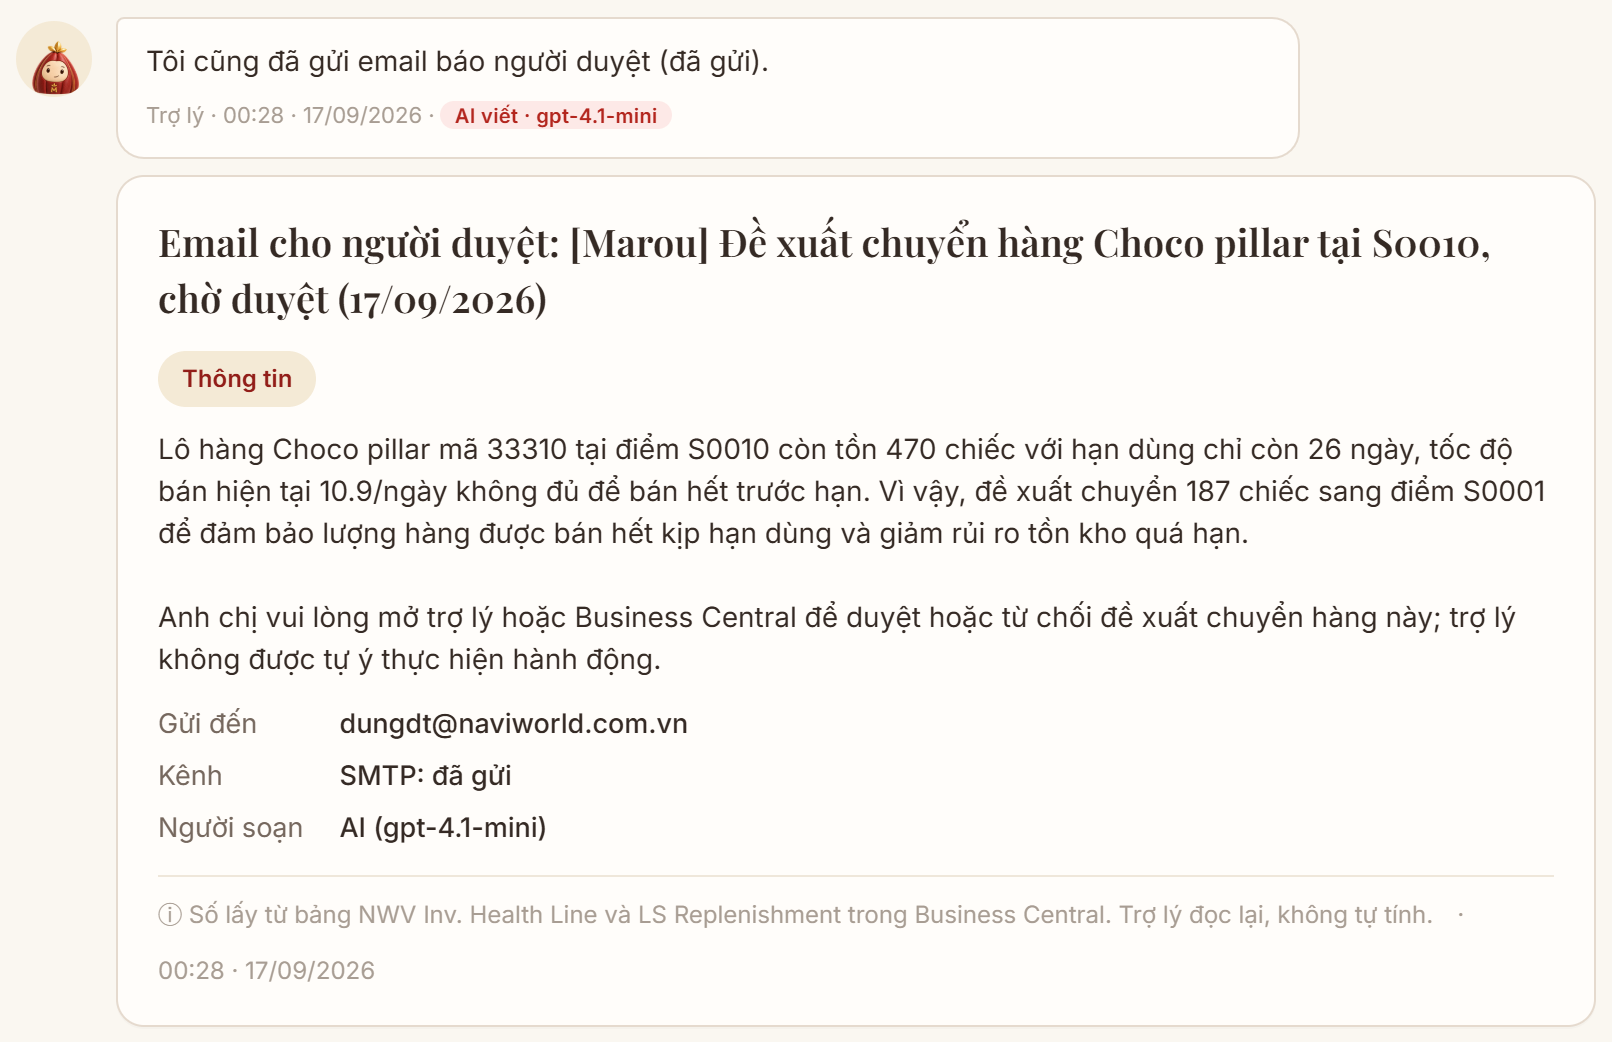
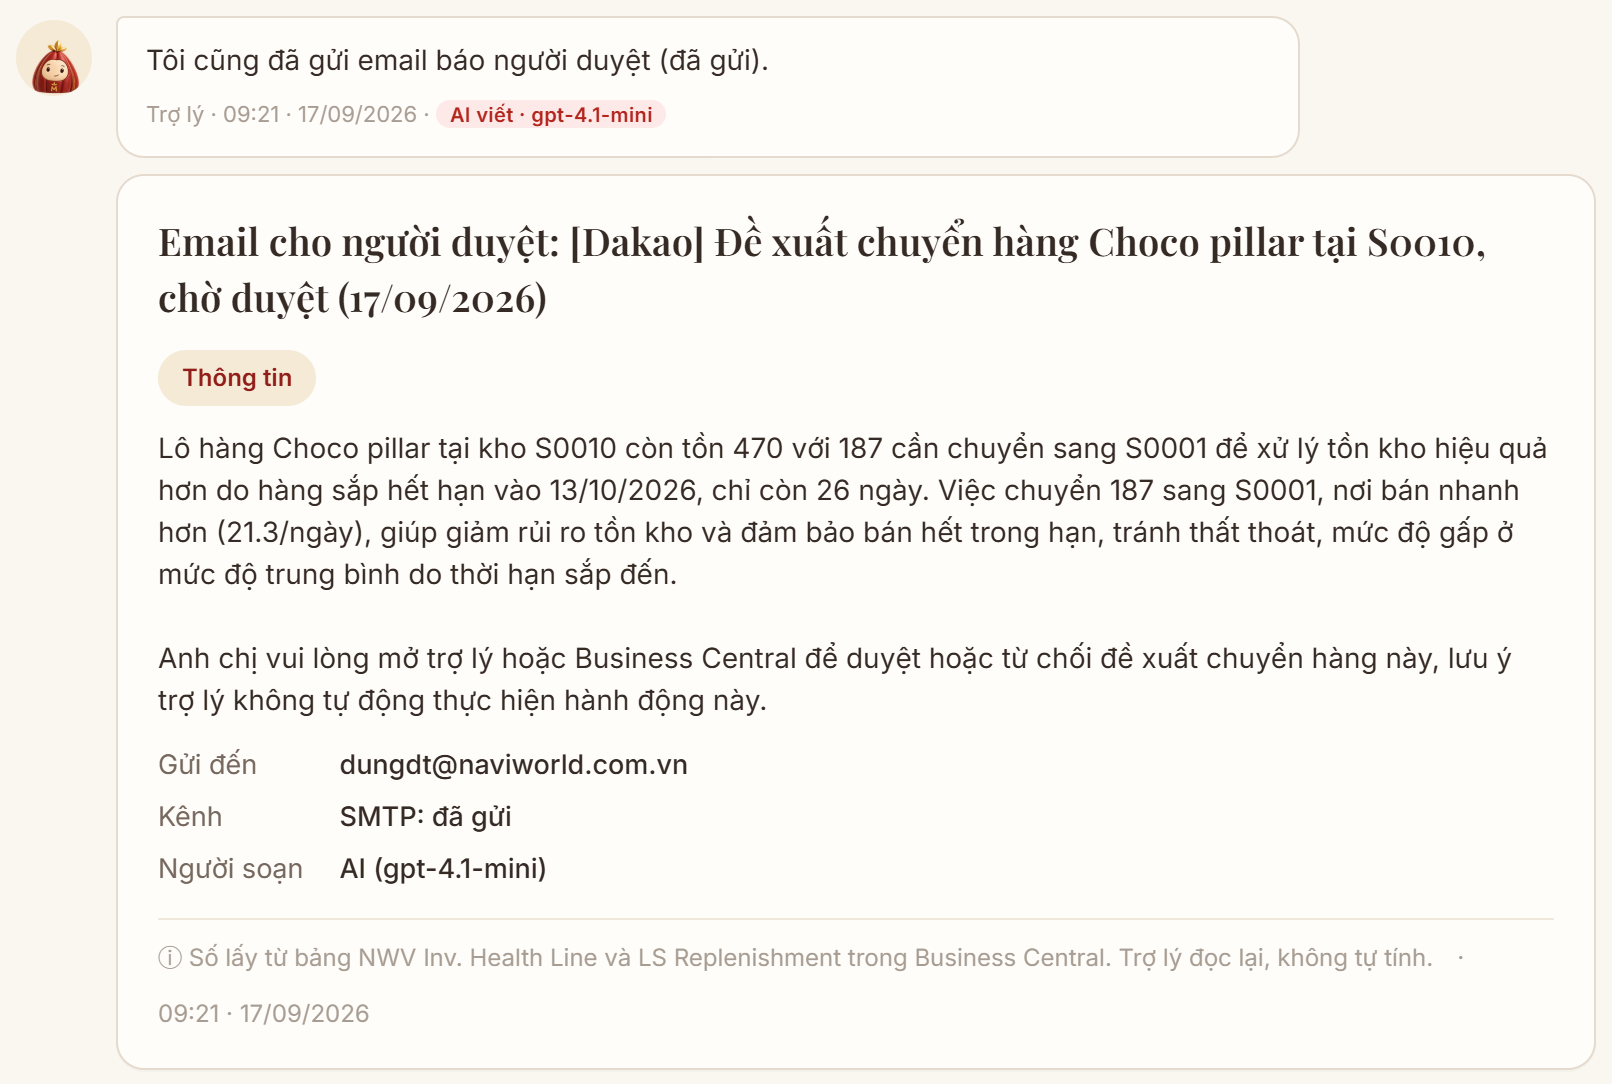
Buoc 3-5 lo can date chuyen sang Dakao: console, QA, script 3.1, slide v6 va anh chup lai

diff --git a/docs/build_13.js b/docs/build_13.js
@@ -1,5 +1,5 @@
 /**
- * Tai lieu 13, ban 3.0: demo script cho buoi trinh dien ngay 17/09/2026.
+ * Tai lieu 13, ban 3.1: demo script cho buoi trinh dien ngay 17/09/2026.
  * Khac voi speaker note trong slide 12: cho nay la runbook thao tac, ai bam gi, o dau, cho bao lau, khach thay gi, noi cau nao.
  * Ban 3.0 (dem 16 rang sang 17/09): UC2 len dau theo yeu cau cua Dung ("chu yeu la UC2"), them cau hoi tu do ve hang cham luan
  * chuyen noi sang de xuat CTKM, email cho nguoi duyet do AI soan, lich nen tu bao khi Marou post xuat kho. Da QA ca 20 buoc tren
@@ -23,7 +23,7 @@ function noiDung() {
     + "của console, tên nút chính là câu sẽ gửi."));
   c.push(...table(["Phần", "Bước", "UC", "Phút"], [
     ["1 · Sáng nay ở Marou: sức khỏe tồn kho", "1, 2", "UC2, AI", "0 đến 4"],
-    ["2 · Một lô cận date: AI phân tích, chọn phương án", "3 đến 5", "UC2 nối UC5, AI", "4 đến 10"],
+    ["2 · Một lô cận date ở cửa hàng: AI phân tích, chọn phương án", "3 đến 5", "UC2 nối UC5, AI", "4 đến 10"],
     ["3 · Hỏi tự do trên tồn kho: chậm luân chuyển, CTKM, truy xuất, bất thường", "6 đến 9", "UC2, AI", "10 đến 19"],
     ["4 · Cửa hàng bán lẻ hết hàng: LS tính, AI đề xuất", "10 đến 13", "UC5, AI", "19 đến 27"],
     ["5 · Dự báo, một nhịp", "14, 15", "UC1, UC7 nối UC5", "27 đến 31"],
@@ -46,7 +46,7 @@ function noiDung() {
     + "chứng từ do lần chạy thử sinh ra. Không phải làm lại gì trước buổi họp, chỉ kiểm theo mục 2."));
   c.push(...table(["Đã có sẵn", "Ở đâu", "Dùng cho bước"], [
     ["Bộ dữ liệu tính theo ngày làm việc 17/09/2026: Inventory Health, dự báo, scorecard, LS Replenishment, cả hai company", "NWV-MAROU và NWV-DAKAO", "Tất cả"],
-    ["Lô Choco pillar L260829-33310-SD tại S0010: 470 cái, 26 ngày nữa hết hạn, bán không kịp; S0001 bán nhanh hơn", "Inventory Health NWV-MAROU", "3 đến 5"],
+    ["Lô Choco pillar L260829-33310-SD tại S0010: 470 cái, 26 ngày nữa hết hạn, bán không kịp; S0001 bán nhanh hơn", "Inventory Health NWV-DAKAO", "3 đến 5"],
     ["Ice cream strawberry: 109 ngày không bán ở S0001, S0002, S0013 và kho; ba CTKM đang chạy không có mặt hàng này", "Inventory Health và Periodic Discount NWV-DAKAO", "6, 7"],
     ["Lô Choco nuts L260906-33323C: Marou xuất 81 cái theo HO106202 sang S0001, hạn 22/04/2027", "Item Ledger Entry NWV-MAROU", "8"],
     ["LS ở Dakao đề xuất 12 Ice cream cho S0002 (min-max 8/20), 7 Croissant chocolate cho S0002 (hết hàng quá nửa cửa sổ tính), 2 Choco nuts cho S0001", "Journal MAROU-PO của NWV-DAKAO", "10, 11, 13"],
@@ -58,7 +58,7 @@ function noiDung() {
   c.push(h2("Đã dọn"));
   c.push(...table(["Đã xoá hoặc đóng", "Vì sao"], [
     ["Đề xuất huỷ Croissant plain ở Marou và đề xuất đặt mua Ice cream ở Dakao từ lần bạn chạy thử tối 16/09", "Để bước 4 và bước 10 ghi đề xuất mới, không bị báo “đã có đề xuất”."],
-    ["Transfer Order HO1039 và đề xuất chuyển Choco pillar của lần QA", "Bước 5 sẽ tạo lại đúng trước mặt khách."],
+    ["Transfer Order HO1039 và đề xuất chuyển Choco pillar của lần QA, ở cả hai company", "Bước 5 sẽ tạo lại đúng trước mặt khách."],
     ["Đơn thử HO106204 (10 Choco pillar, S0005) và HO106205 (12 Ice cream, S0002): đã xuất kho và đã post nhận (phiếu 107111, 107112), đề xuất liên quan đã xoá", "Hai đơn dùng để kiểm lịch nền báo xuất kho và nút Marou xuất kho. Đóng lại để bước 16 chỉ còn HO106202 và HO106200."],
     ["Đề xuất post nhận HO106200 sinh ra khi QA bước 16", "Bước 16 sẽ ghi lại đúng lúc bấm."],
   ], [6.0, 6.0]));
@@ -73,7 +73,7 @@ function noiDung() {
     ["Bấm Reset MỘT lần lúc bắt đầu, rồi thôi", "Khay Điều khiển demo ở góc dưới phải, nút Reset", "Hộp thư mọi vai về màn hình chào. Sau đó không bấm Reset nữa, không bấm +24 giờ"],
     ["Nguồn dữ liệu là Business Central", "Dải ngay dưới thanh tiêu đề, nút Business Central đang tô", "Dải xanh ghi Đang đọc Business Central NWV01"],
     ["Bật AI", "Vai Dũng (Quản trị), tab Cài đặt AI", "Ô trạng thái ghi AI đang bật; trần ngày còn ít nhất 1 USD"],
-    ["Cột Theo dõi xử lý sạch", "Vai Hùng, xem cột phải ở cả hai company", "Marou: chưa có đề xuất nào. Dakao: bốn dòng Executed (HO106200, HO106201, HO106202, phiếu nhận 107110)"],
+    ["Cột Theo dõi xử lý sạch", "Vai Hùng, xem cột phải ở cả hai company", "Marou: chưa có đề xuất nào. Dakao: bốn dòng Executed (HO106200, HO106201, HO106202, phiếu nhận 107110), chưa có đề xuất chuyển hàng"],
     ["Mở sẵn Business Central", "Một tab trình duyệt riêng, đăng nhập NWV01, company NWV-MAROU", "Bấm link trong thẻ là mở được; muốn tự post xuất kho HO106203 thì mở sẵn Sales Order S90016"],
   ], [2.6, 5.2, 4.2]));
   c.push(h2("Người dùng demo"));
@@ -119,20 +119,20 @@ function noiDung() {
      "Bản này cũng tự chạy lúc 07:30 và gửi email, hôm nay tạm dừng để giữ dữ liệu cho buổi họp."],
     ["Phần lớn thời gian là đọc Business Central. Nói trước để người xem không tưởng máy treo."]);
 
-  c.push(h2("Phần 2 · Một lô cận date: AI phân tích, chọn phương án"));
-  buoc(3, "Lô nào sắp hết hạn?", "trang.sc · Marou",
+  c.push(h2("Phần 2 · Một lô cận date ở cửa hàng: AI phân tích, chọn phương án"));
+  buoc(3, "Lô nào sắp hết hạn?", "trang.sc · Dakao",
     "Nút 3.",
     "Khoảng 5 giây: 36 lô cận date, chia theo địa điểm; 5 thẻ lô giá trị lớn nhất. Thẻ Choco pillar S0010: 470 cái, 26 ngày, bán không kịp; hai nút Đề xuất giảm giá và Phương án xử lý.",
     ["Câu này trợ lý đọc thẳng bảng. Điều phối thấy toàn hệ thống; quản lý cửa hàng hỏi cùng câu chỉ thấy cửa hàng mình.",
      "Chọn Choco pillar để đi tiếp: 470 cái mà 26 ngày nữa hết hạn, tại chỗ bán không kịp."]);
-  buoc(4, "Phương án xử lý cho Choco pillar ở S0010", "trang.sc · Marou",
+  buoc(4, "Phương án xử lý cho Choco pillar ở S0010", "trang.sc · Dakao",
     "Nút 4 gửi câu “phương án xử lý cho Choco pillar ở S0010” (cùng kết quả với nút Phương án xử lý trên thẻ lô). Trên thẻ trả về, bấm nút Ghi đề xuất: Chuyển.",
     "Khoảng 5 giây: bảng năm phương án kèm giá trị cứu được hoặc mất, lời khuyên của model (chuyển 187 sang S0001, không còn phần dư). Sau khi ghi (khoảng 15 giây): câu đã ghi đề xuất, thẻ Email cho người duyệt với hai đoạn AI viết, kênh SMTP đã gửi.",
     ["Code tính năm phương án: giữ, chuyển, chuyển kèm giảm giá, giảm giá, huỷ. Khả năng nhận của từng cửa hàng bằng bán bình quân nhân ngày còn lại trừ tồn họ đang có.",
      "Model chọn một và nói vì sao. Khoá phương án phải nằm trong bảng, chữ số phải có trong dữ liệu, không được thêm đơn vị tiền, không được chọn giữ khi giữ vẫn còn dư. Vi phạm là về câu mẫu.",
-     "Đây là UC2 nối sang UC5: hàng cận date đi về nơi bán nhanh, không phải huỷ.",
+     "Đây là UC2 nối sang UC5: hàng cận date đi về nơi bán nhanh, không phải huỷ. Bước này chạy ở Dakao vì cửa hàng thuộc Dakao; Marou là nhà sản xuất.",
      "Người duyệt được gọi hai đường: thẻ trong chat cho ai đang mở trợ lý, email cho ai không mở. Code điền bảng số liệu và link BC; AI chỉ viết đoạn mở đầu và đoạn kết."]);
-  buoc(5, "Hùng duyệt chuyển hàng", "hung.dieuphoi · Marou",
+  buoc(5, "Hùng duyệt chuyển hàng", "hung.dieuphoi · Dakao",
     "Nút 5 đổi sang Hùng. Bấm Duyệt chuyển hàng trên thẻ đề xuất Choco pillar S0010 sang S0001.",
     "Khoảng 5 giây: Đã duyệt, Transfer Order HO10xx tạo dưới tên Hùng, trạng thái Open; cột phải Transfer Order có dòng mới.",
     ["Đề xuất ghi vào một bảng riêng trong Business Central, trạng thái luôn vào ở Proposed. Không có đường tắt cho trợ lý ghi thẳng chứng từ.",
@@ -295,7 +295,7 @@ function noiDung() {
     "Runbook 20 bước cho buổi trình diễn 17/09/2026: dữ liệu đã tạo sẵn, bấm gì, khách thấy gì, nói gì",
     {
       headerLeft: "NaviWorld", headerRight: "Marou • Demo script • Nội bộ",
-      footer: `Demo script · Bản 3.0, ${NGAY}`,
+      footer: `Demo script · Bản 3.1, ${NGAY}`,
       cover: ["Người đọc: người trình diễn và người hỗ trợ kỹ thuật trong buổi họp",
         "Môi trường: Business Central NWV01, hai company NWV-MAROU và NWV-DAKAO, Work Date 17/09/2026",
         `Soạn rạng sáng ${NGAY}, sau khi chạy thử cả 20 bước trên dữ liệu thật. Thứ tự bước trùng với cột Kịch bản demo trên console.`,

diff --git a/python/assistant/static/index.html b/python/assistant/static/index.html
@@ -663,14 +663,14 @@ const CHUONG = [
     {ten: "Brief sáng nay do AI viết", y: "ba việc quan trọng nhất và vì sao", loai: "brief", ai: "trang.sc", ct: "NWV-MAROU", uc: "UC2 · AI",
      mo: "Model chọn ba việc trong danh sách code đưa và nói vì sao; mọi chữ số phải có trong dữ liệu, sai là về câu mẫu. Mất khoảng 20 giây, phần lớn là đọc Business Central."},
   ]},
-  {ten: "2 · Một lô cận date: AI phân tích, chọn phương án", buoc: [
-    {ten: "Lô nào sắp hết hạn?", y: "36 lô cận date, thẻ Choco pillar S0010", loai: "chat", ai: "trang.sc", ct: "NWV-MAROU", uc: "UC2",
+  {ten: "2 · Một lô cận date ở cửa hàng: AI phân tích, chọn phương án", buoc: [
+    {ten: "Lô nào sắp hết hạn?", y: "36 lô cận date, thẻ Choco pillar S0010", loai: "chat", ai: "trang.sc", ct: "NWV-DAKAO", uc: "UC2",
      text: "lô nào sắp hết hạn",
      mo: "Trợ lý đọc thẳng bảng, chia theo địa điểm, 5 lô giá trị lớn nhất thành thẻ. Thẻ Choco pillar S0010: 470 cái, 26 ngày, bán không kịp, có nút Phương án xử lý."},
-    {ten: "Phương án xử lý cho Choco pillar ở S0010", y: "code tính 5 phương án, AI chọn và giải thích", loai: "chat", ai: "trang.sc", ct: "NWV-MAROU", uc: "UC2 → UC5 · AI", can_ai: true,
+    {ten: "Phương án xử lý cho Choco pillar ở S0010", y: "code tính 5 phương án, AI chọn và giải thích", loai: "chat", ai: "trang.sc", ct: "NWV-DAKAO", uc: "UC2 → UC5 · AI", can_ai: true,
      text: "phương án xử lý cho Choco pillar ở S0010",
      mo: "Cùng kết quả với nút Phương án xử lý trên thẻ lô. Code tính giữ, chuyển, chuyển kèm giảm giá, giảm giá, hủy kèm giá trị cứu được; model chọn chuyển 199 sang S0001 vì bên đó bán nhanh hơn và nói vì sao. Bấm nút ghi đề xuất."},
-    {ten: "Hùng duyệt chuyển hàng", y: "Business Central tạo Transfer Order", loai: "huong_dan", ai: "hung.dieuphoi", ct: "NWV-MAROU", uc: "UC2", ghi_bc: true,
+    {ten: "Hùng duyệt chuyển hàng", y: "Business Central tạo Transfer Order", loai: "huong_dan", ai: "hung.dieuphoi", ct: "NWV-DAKAO", uc: "UC2", ghi_bc: true,
      mo: "Hộp thư Hùng có thẻ đề xuất chuyển 199 Choco pillar S0010 sang S0001. Bấm Duyệt chuyển hàng: BC tạo Transfer Order Open, thẻ có link mở. Trợ lý không có đường tắt ghi thẳng chứng từ."},
   ]},
   {ten: "3 · Hỏi tự do trên tồn kho: chậm luân chuyển, CTKM, truy xuất, bất thường", buoc: [

diff --git a/docs/note_slide_17_09.py b/docs/note_slide_17_09.py
@@ -15,6 +15,8 @@ SUA_CHU = [
         "Marou bán cho Dakao bằng Intercompany chuẩn của Business Central."),
     (5, "Nguồn: khảo sát Marou 13/09/2026 và RFP 20/08/2026.", "Nguồn: bối cảnh vận hành hiện tại của Marou và RFP 20/08/2026."),
     (5, "Dữ liệu trình diễn do NaviWorld dựng trên danh mục của Marou.", "Dữ liệu trình diễn do NaviWorld dựng trên danh mục của data demo Cronus."),
+    (5, "Trợ lý: tồn kho theo lô, đề xuất chuyển nội bộ", "Trợ lý: tồn kho theo lô, truy xuất lô, bán cho Dakao"),
+    (5, "Trợ lý: đứt hàng, dự báo, khuyến mãi, nhận hàng", "Trợ lý: lô cận date, đứt hàng, dự báo, khuyến mãi, nhận hàng"),
     (7, " Toàn bộ ngày QA 16/09 tốn 0,085 USD cho 146 lượt gọi.", ""),
     (8, " Đã chạy thử trọn vòng trên Business Central đêm 16/09.", ""),
     (12, "Chạy thật 17/09/2026 00:28 trên NWV-MAROU: SMTP đã gửi, người soạn AI (gpt-4.1-mini).",
@@ -73,12 +75,13 @@ GHI CHÚ:
 
 5: """NÓI:
 Slide này nối kiến trúc với bài toán của Marou. Marou có hai đơn vị. Marou là sản xuất, quản lý theo lô và hạn dùng. Dakao là bán lẻ, không quản lý lô. Hàng đi từ Marou sang Dakao bằng mua bán giữa hai công ty, giao thẳng tới từng cửa hàng.
-Vì vậy trợ lý đề xuất khác nhau ở hai bên. Bên Marou là chuyển hàng nội bộ. Bên Dakao là đặt mua, với nhà cung cấp chính là Marou. Số lượng vẫn do LS Central tính.
+Vì vậy trợ lý làm việc khác nhau ở hai bên. Bên Marou, trợ lý theo dõi tồn kho theo lô và truy xuất lô. Bên Dakao, trợ lý lo cho cửa hàng: lô cận date thì chuyển sang cửa hàng bán nhanh hơn, sắp hết hàng thì đặt mua từ Marou. Số lượng vẫn do LS Central tính.
 Ở giữa là ba painpoint của kho bán lẻ theo bối cảnh hiện tại. Một, hàng về cửa hàng mà chứng từ nhận hàng dồn tới cuối tháng mới post, phải thuê người ngoài làm. Hai, muốn tự động hóa đơn qua lại giữa hai công ty. Ba, kết ca thiếu nguyên liệu.
 Painpoint một và hai POC trả lời được, các anh sẽ thấy ở phần liên công ty cuối buổi. Painpoint ba nằm ngoài phạm vi POC này, em nói thẳng từ đầu.
 
 GHI CHÚ:
 - Không nói "khảo sát"; đây là bối cảnh hiện tại, chưa khảo sát chính thức.
+- Data demo: company Marou vẫn còn cửa hàng vì là bản sao từ Cronus. Mọi bước có cửa hàng đều chạy ở company Dakao; đừng mở cửa hàng ở company Marou.
 - Khách hỏi vì sao không tự gửi đơn: gửi đơn kéo theo Release, là quyết định của người mua.""",
 
 6: """NÓI:

diff --git a/tools/qa_kich_ban_17_09.py b/tools/qa_kich_ban_17_09.py
@@ -116,12 +116,12 @@ def chay(buoc, ghi):
 KICH_BAN = [
     {"so": 1, "ten": "Sức khỏe tồn kho", "loai": "tab", "url": "/api/uc2/summary?user=trang.sc", "ai": "trang.sc", "ct": "NWV-MAROU"},
     {"so": 2, "ten": "Brief AI", "loai": "brief", "ai": "trang.sc", "ct": "NWV-MAROU", "can_ai": True},
-    {"so": 3, "ten": "Lô nào sắp hết hạn", "loai": "chat", "text": "lô nào sắp hết hạn", "ai": "trang.sc", "ct": "NWV-MAROU"},
+    {"so": 3, "ten": "Lô nào sắp hết hạn", "loai": "chat", "text": "lô nào sắp hết hạn", "ai": "trang.sc", "ct": "NWV-DAKAO"},
     {"so": 4, "ten": "Phương án Choco pillar S0010", "loai": "chat", "text": "phương án xử lý cho Choco pillar ở S0010", "ai": "trang.sc",
-     "ct": "NWV-MAROU", "can_ai": True},
-    {"so": "4b", "ten": "Ghi đề xuất theo phương án", "loai": "nut", "verb": "ih_d4_apply", "ai": "trang.sc", "ct": "NWV-MAROU",
+     "ct": "NWV-DAKAO", "can_ai": True},
+    {"so": "4b", "ten": "Ghi đề xuất theo phương án", "loai": "nut", "verb": "ih_d4_apply", "ai": "trang.sc", "ct": "NWV-DAKAO",
      "xem": ["trang.sc", "hung.dieuphoi"]},
-    {"so": 5, "ten": "Hùng duyệt chuyển hàng", "loai": "nut", "verb": "approve", "co": "Choco pillar", "ai": "hung.dieuphoi", "ct": "NWV-MAROU"},
+    {"so": 5, "ten": "Hùng duyệt chuyển hàng", "loai": "nut", "verb": "approve", "co": "Choco pillar", "ai": "hung.dieuphoi", "ct": "NWV-DAKAO"},
     {"so": 6, "ten": "Chậm luân chuyển", "loai": "chat", "text": "mặt hàng nào đang chậm luân chuyển ở các cửa hàng", "ai": "trang.sc",
      "ct": "NWV-DAKAO", "can_ai": True},
     {"so": 7, "ten": "CTKM cho hàng chậm", "loai": "chat", "text": "bạn có đề xuất gì về CTKM để bán các mặt hàng chậm luân chuyển này không",

diff --git a/docs/build_slide_17_09.py b/docs/build_slide_17_09.py
@@ -19,7 +19,7 @@ from pptx import Presentation
 DOCS = Path(__file__).resolve().parent
 NGOAI = Path(r"C:/Users/dungdt.NWV/Demo-Marou")
 NGUON = NGOAI / "Marou POC - slide demo.pptx"
-RA = NGOAI / (sys.argv[1] if len(sys.argv) > 1 else "Marou POC - slide demo (ban ngan, 17-09 v5).pptx")
+RA = NGOAI / (sys.argv[1] if len(sys.argv) > 1 else "Marou POC - slide demo (ban ngan, 17-09 v6).pptx")
 
 # Nap helper (mau, font, slide, txt, hop, anh, anh_cat, ba_cot_io, the_ngang, bang_nguon, note) tu builder goc.
 _src = (DOCS / "build_slide_uc2_v2.py").read_text(encoding="utf-8")

diff --git a/CLAUDE.md b/CLAUDE.md
@@ -1914,6 +1914,14 @@ Dung giao: QA toan bo kich ban, cap nhat slide, tao chung tu can cho live demo, 
   slide, xep lai), anh `docs/anh-uc2/kb17-*.png` chup bang `tools/chup_kich_ban_17_09.mjs` tu hop thu QA (khong gui cau moi).
 - Toc do do duoc: cau tu do 10-35 giay (planner 2-4 luot + doc BC); hai cau tu do sat nhau de cham 429 vi TPM 30k. Chi phi ca vong QA ~0,08 USD.
 
+### Buoc 3-5 (lo can date, D4, duyet TO) chuyen sang NWV-DAKAO, sang 17/09/2026
+
+Dung hoi "sao ben Marou lai chuyen hang noi bo": Marou la san xuat, cua hang thuoc Dakao; NWV-MAROU con 5 cua hang chi vi la
+ban sao. Moi buoc co cua hang chay o NWV-DAKAO (console `CHUONG` phan 2, `tools/qa_kich_ban_17_09.py`, tai lieu 13 ban 3.1,
+slide v6). QA that o Dakao: D4 chon chuyen 187 sang S0001, email [Dakao] SMTP da gui, duyet ra TO (Direct Transfer); da xoa TO
+va de xuat thu. Slide rut gon v6: note van noi xung "em", nguoi nghe "cac anh" (`docs/note_slide_17_09.py`), painpoint theo
+boi canh hien tai (chua khao sat), du lieu "dung tren danh muc cua data demo Cronus", ma G3 cho email nhac post.
+
 ### Email cho nguoi duyet khi co de xuat moi, AI soan phan loi, 16/09/2026 dem
 
 Dung nhin the "Da ghi de xuat WriteOff ... Toi da bao nguoi duyet ngay trong chat cua ho" va hoi "phan nay co gui qua email
